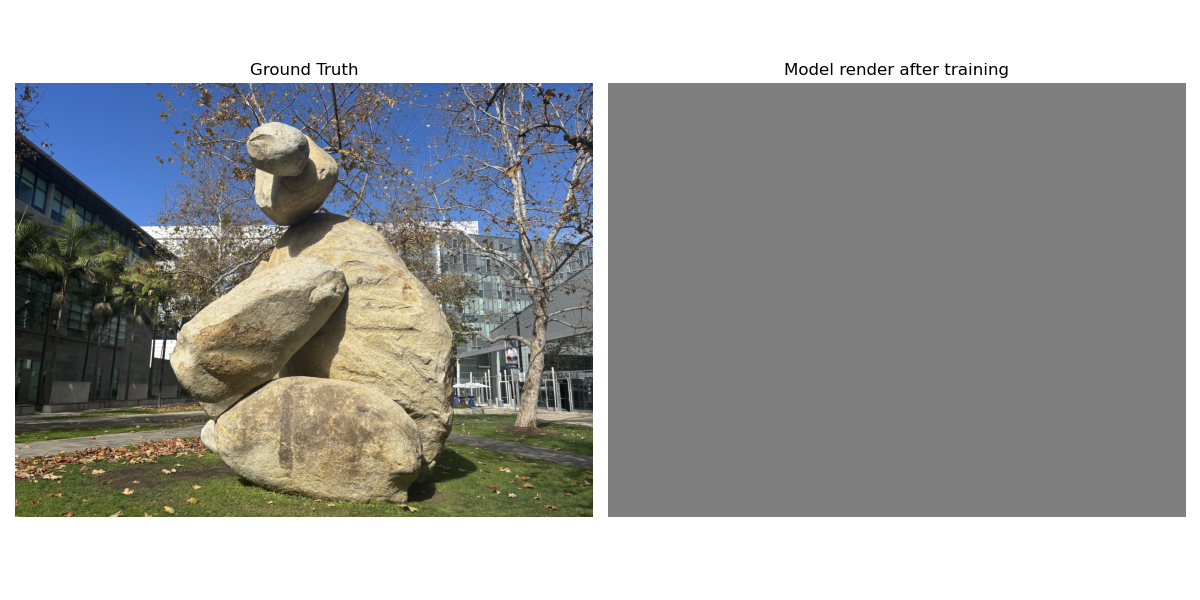
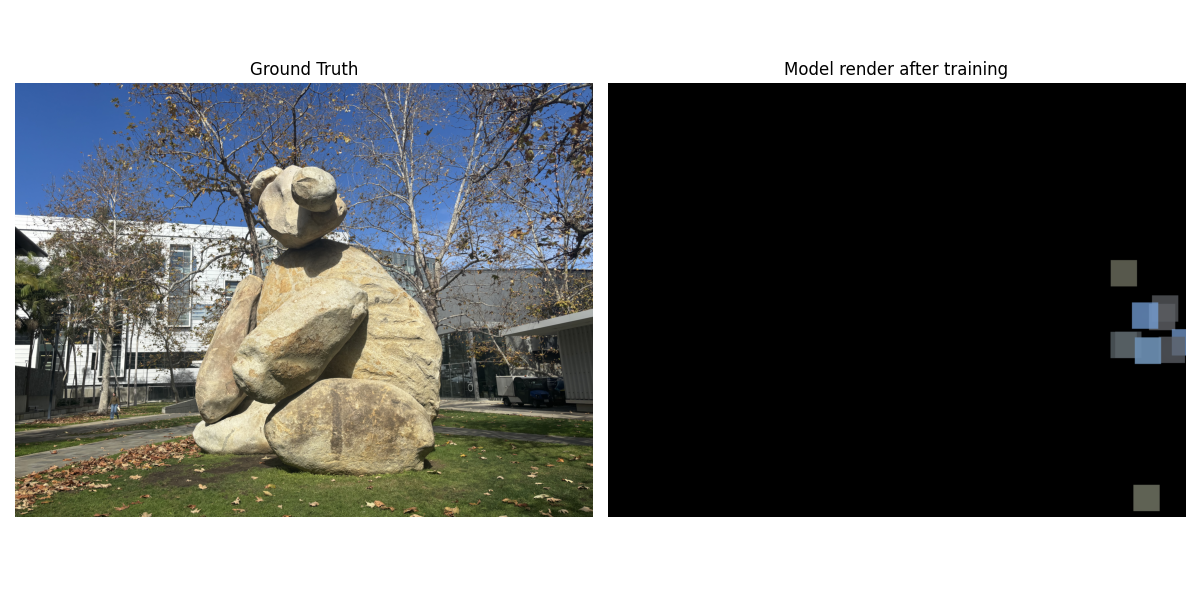
files changed for training

diff --git a/colmap_test/render.py b/colmap_test/render.py
@@ -127,7 +127,8 @@ def render_differentiable(
     Sigma = rot_matrix @ scale_matrix @ scale_matrix.transpose(-1,-2) @ rot_matrix.transpose(-1, -2)
     
     covariance_camera = Jacobian @ W @ Sigma @ W.transpose(-1,-2) @ Jacobian.transpose(-1,-2)
-    
+    contributions = []  # collect (slice_y, slice_x, weighted_contrib) tuples
+
     #bounding box loop
     for i in range(len(pixel_x)):
         px = pixel_x[i].item()
@@ -149,7 +150,7 @@ def render_differentiable(
         sigma_y = torch.sqrt(cov_2d[1, 1])
         #clamp radius
         radius = min(max(sigma_x, sigma_y) * 3.5, 64)
-        print(f"Gaussian {i}: px=({px:.1f},{py:.1f}), radius={radius:.1f}, bbox=({x_min},{y_min})-({x_max},{y_max}), bbox_size={( x_max-x_min+1)*(y_max-y_min+1)}", flush=True)
+        # print(f"Gaussian {i}: px=({px:.1f},{py:.1f}), radius={radius:.1f}, bbox=({x_min},{y_min})-({x_max},{y_max}), bbox_size={( x_max-x_min+1)*(y_max-y_min+1)}", flush=True)
 
 
         x_min = max(0, int(px - radius))
@@ -176,10 +177,30 @@ def render_differentiable(
         
         slice_y = slice(y_min, y_max + 1)
         slice_x = slice(x_min, x_max + 1)
-        contrib = colors[i] * alpha[..., None]       # broadcasts to (h',w',3)
+        #contrib = colors[i] * alpha[..., None]       # broadcasts to (h',w',3)
 
-        image[slice_y, slice_x] += transmittance[slice_y, slice_x][..., None] * contrib
-        transmittance[slice_y, slice_x] *= (1.0 - alpha)
-        
+        # image[slice_y, slice_x] += transmittance[slice_y, slice_x][..., None] * contrib
+        # transmittance[slice_y, slice_x] *= (1.0 - alpha)
+        # image = image.clone()
+        # image[slice_y, slice_x] = image[slice_y, slice_x] + transmittance[slice_y, slice_x][..., None] * contrib
+        # transmittance = transmittance.clone()
+        # transmittance[slice_y, slice_x] = transmittance[slice_y, slice_x] * (1.0 - alpha)
+        # use detached transmittance — no gradient through transmittance
+        with torch.no_grad():
+            t_slice = transmittance[y_min:y_max+1, x_min:x_max+1].clone()
+            transmittance[y_min:y_max+1, x_min:x_max+1] = t_slice * (1.0 - alpha.detach())
+
+        contrib = t_slice[..., None] * colors[i] * alpha[..., None]  # (h', w', 3)
+        contributions.append((y_min, y_max, x_min, x_max, contrib))
+    # build final image out-of-place by summing all contributions
+    for (y_min, y_max, x_min, x_max, contrib) in contributions:
+      image = image + torch.nn.functional.pad(
+        contrib,
+        (0, 0,                        # color dim
+        x_min, width - x_max - 1,    # left, right
+        y_min, height - y_max - 1),  # top, bottom
+        value=0)
+
+
     return image.permute(2, 0, 1).clamp(0, 1) 
     

diff --git a/colmap_test/train.py b/colmap_test/train.py
@@ -32,6 +32,10 @@ class GaussianModel(nn.Module):
         self.rotations = nn.Parameter(torch.from_numpy(rotations).float())
         self.colors = nn.Parameter(torch.from_numpy(colors).float())
         self.opacities = nn.Parameter(torch.from_numpy(opacities).float())
+
+        # clamp initial scales to prevent exploding bounding boxes
+        with torch.no_grad():
+            self.scales.clamp_(-3, 3)
         
         print(f"Initialized model with {N} Gaussians")
         print(f"Total parameters: {sum(p.numel() for p in self.parameters())}")
@@ -132,6 +136,7 @@ def train_simple(model, cameras_data, num_iterations=50, lr=0.001):
 
 # more minimal version first to ensure it's working. later todos: densification, and more
 def train_gaussians(model, cameras_data, num_iterations=10, lr=0.002):
+    torch.autograd.set_detect_anomaly(True)
     import psutil, gc
     optimizer = optim.Adam(model.parameters(), lr=lr)
     losses = []
@@ -152,7 +157,7 @@ def train_gaussians(model, cameras_data, num_iterations=10, lr=0.002):
         optimizer.zero_grad()
         
         cam = cameras_data[np.random.randint(len(cameras_data))]
-        gt = torch.from_numpy(cam['target_image']).float().permute(2, 0, 1)  # (3,H,W)
+        gt = torch.from_numpy(cam['target_image']).float().permute(2, 0, 1).to(device)  # (3,H,W)
         
         pos, sca, rot, col, opa = model.get_gaussian_tensors()
         rendered = render_differentiable(pos, sca, rot, col, opa, cam['camera'], gt.shape[2], gt.shape[1], device)
